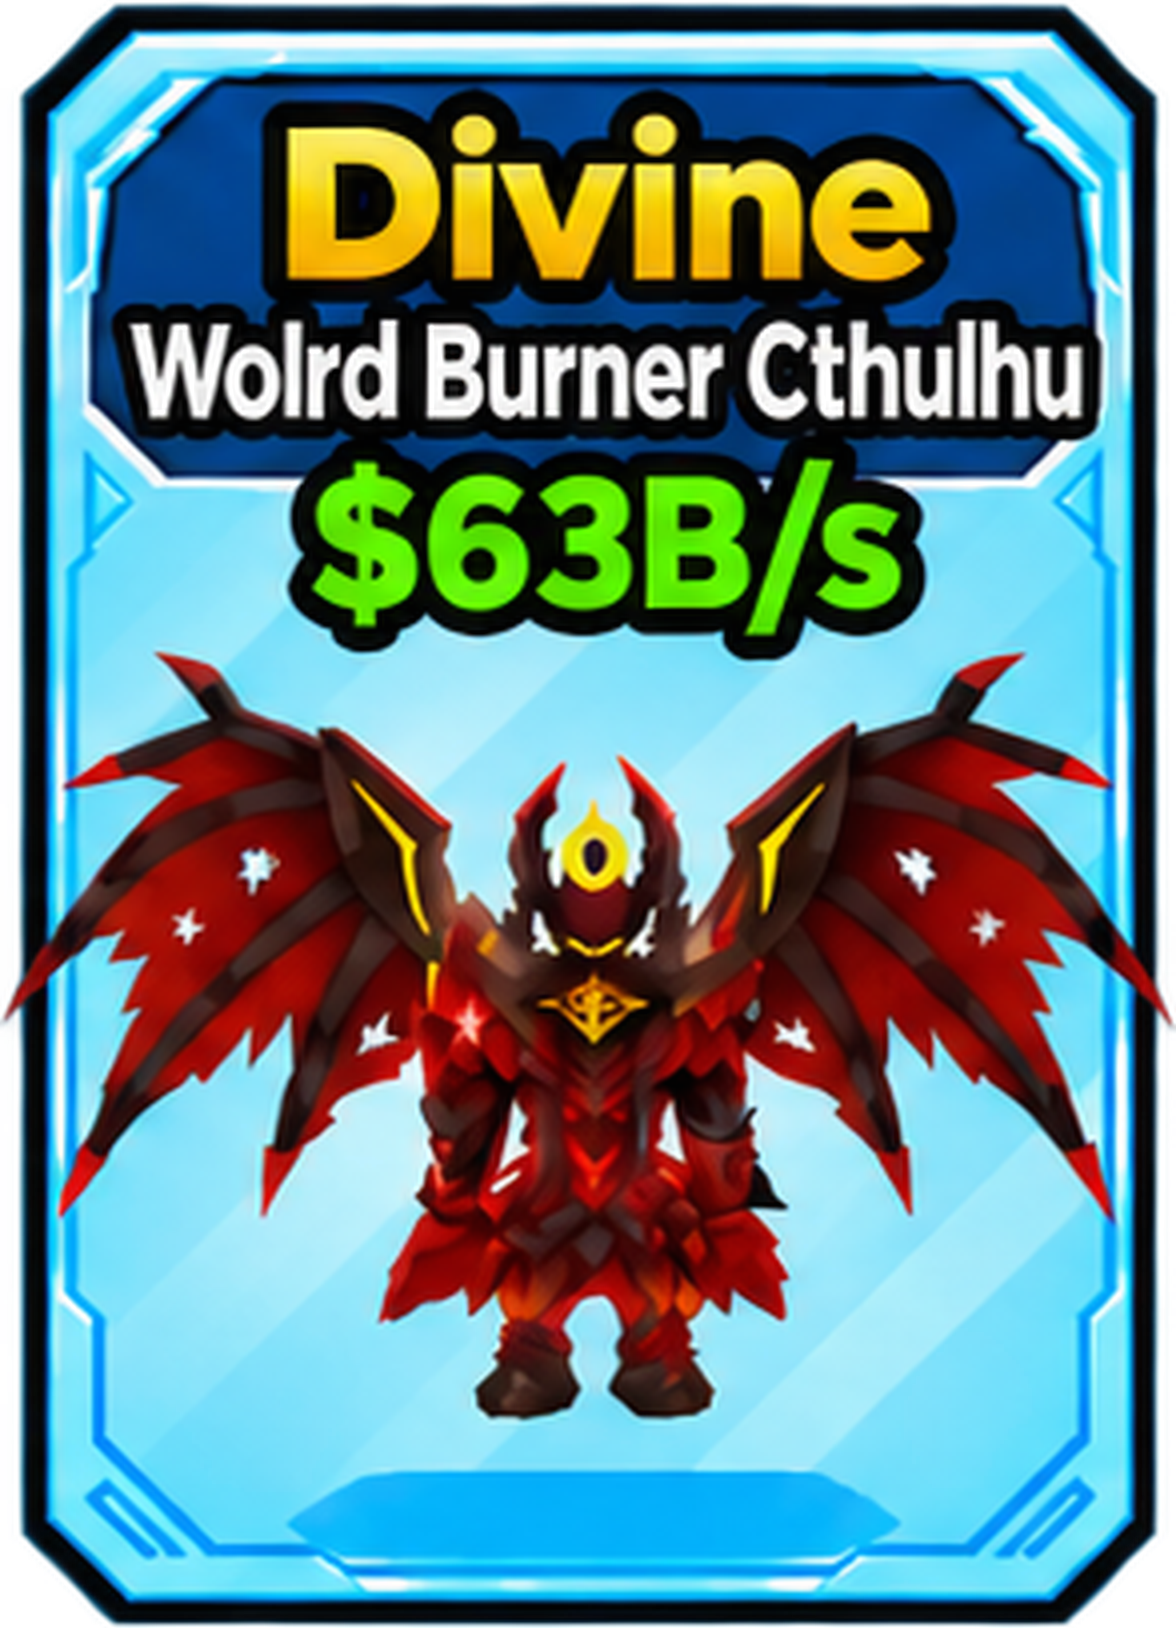
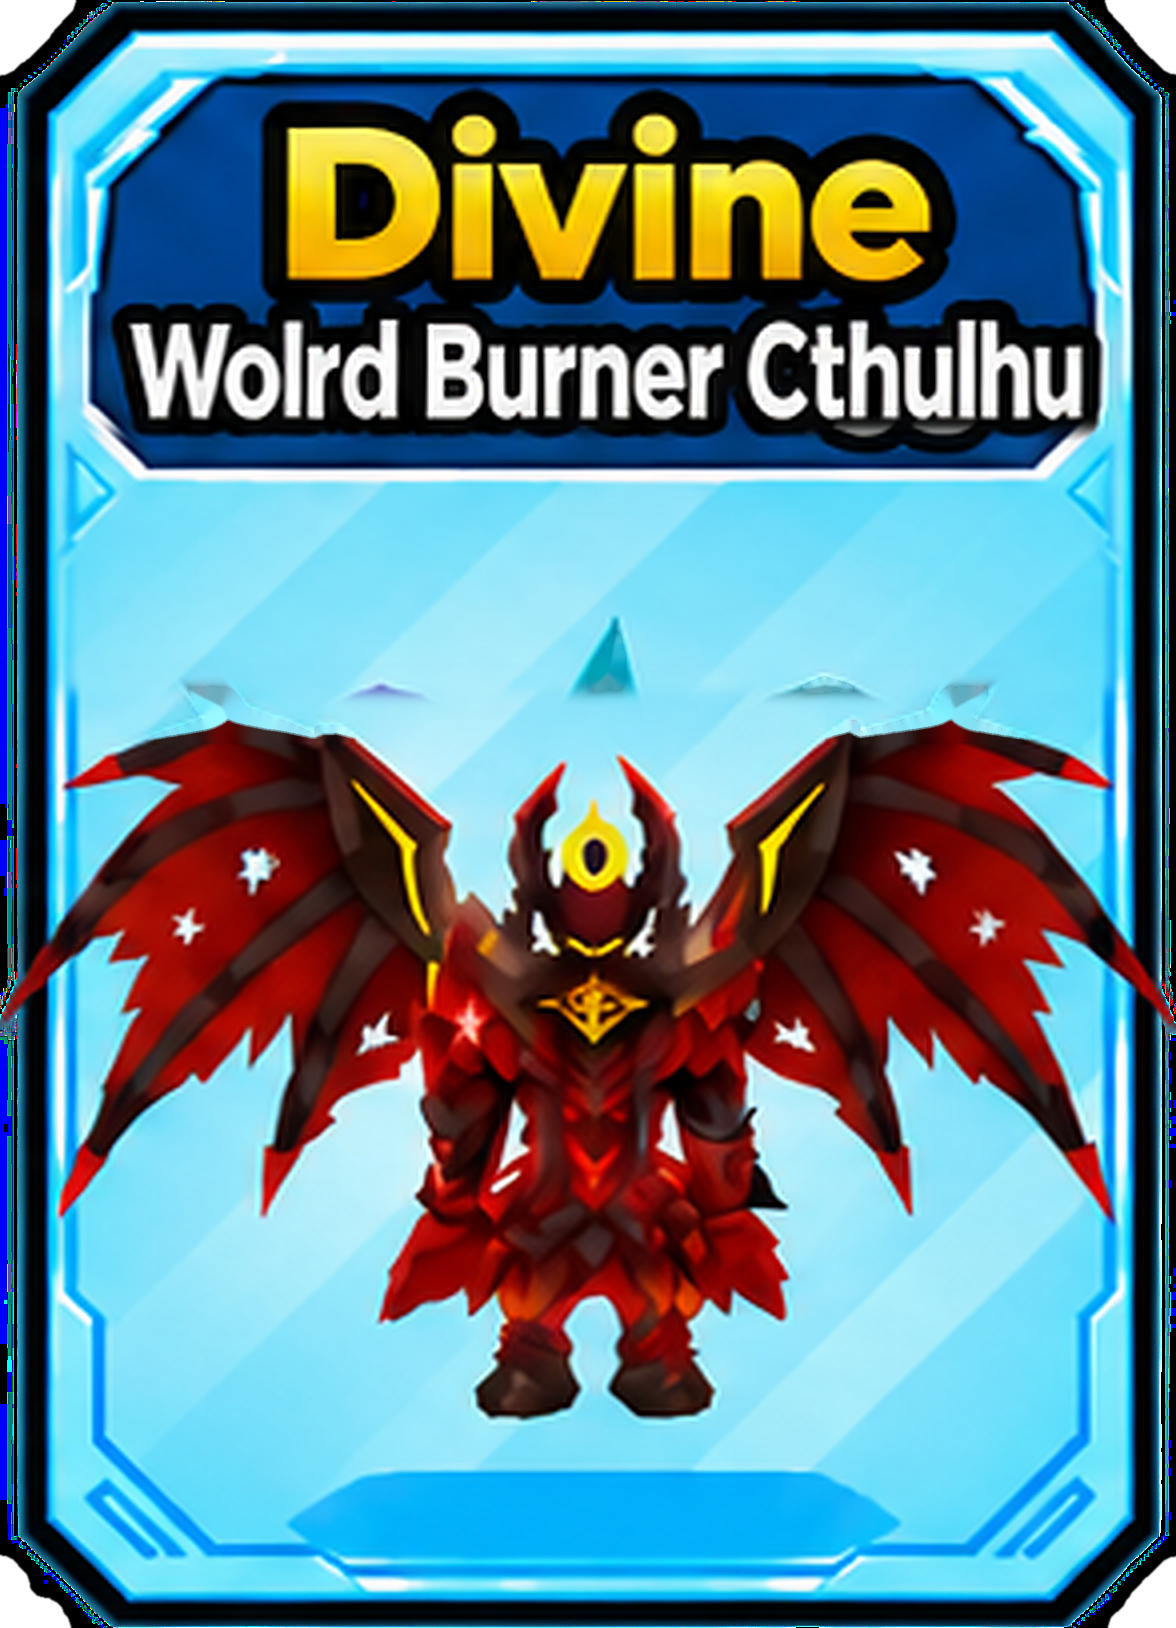
yuyu

Changed region(s): [[0.0, 0.0, 1.0, 1.0]]

diff --git a/config.js b/config.js
@@ -1,1 +1,1 @@
-window.SAE_CONFIG={"version":"5.18-compact-price-cover","cards":[{"id":"kitsune","name":"Kitsune","base":1800000000,"box":[22,93,285,405],"dynamic":true},{"id":"luminous_cthulhu","name":"Luminous Cthulhu","base":13000000000,"box":[320,92,292,407],"dynamic":true},{"id":"archangel","name":"ArchAngel","base":5000000000,"box":[625,92,286,407],"dynamic":true},{"id":"aetheron","name":"Aetheron","base":6900000000,"box":[922,92,293,407],"dynamic":true},{"id":"world_burner_cthulhu","name":"World Burner Cthulhu","base":5000000000,"box":[1224,92,294,407],"dynamic":true},{"id":"shattered_colossus","name":"Shattered Colossus","base":3500000000,"box":[21,515,286,407],"dynamic":true},{"id":"nightflame","name":"Nightflame","base":3000000000,"box":[320,516,293,407],"dynamic":true},{"id":"luminous_eggs","name":"Luminous Eggs","base":null,"box":[625,516,285,406],"dynamic":false},{"id":"cthulhu","name":"Cthulhu","base":5000000000,"box":[923,516,292,406],"dynamic":true},{"id":"mecha_dreadscale","name":"Mecha Dreadscale","base":4000000000,"box":[1230,516,285,406],"dynamic":true}],"mutations":{"silver":{"label":"Silver","multiplier":1.2},"golden":{"label":"Golden","multiplier":2.5},"rainbow":{"label":"Rainbow","multiplier":3.5},"bloom":{"label":"Bloom","multiplier":1.25},"spirit_bloom":{"label":"Spirit Bloom","multiplier":2.5},"parasite":{"label":"Parasite","multiplier":3.0},"fractured":{"label":"Fractured","multiplier":2.75}},"backend":"https://steal-an-egg-overlay-backend.leducho1900.workers.dev","room":"sae_421045db4089999b697c52d464c44d3a"};
+window.SAE_CONFIG={"version":"5.19-no-price-patch","cards":[{"id":"kitsune","name":"Kitsune","base":1800000000,"box":[22,93,285,405],"dynamic":true},{"id":"luminous_cthulhu","name":"Luminous Cthulhu","base":13000000000,"box":[320,92,292,407],"dynamic":true},{"id":"archangel","name":"ArchAngel","base":5000000000,"box":[625,92,286,407],"dynamic":true},{"id":"aetheron","name":"Aetheron","base":6900000000,"box":[922,92,293,407],"dynamic":true},{"id":"world_burner_cthulhu","name":"World Burner Cthulhu","base":5000000000,"box":[1224,92,294,407],"dynamic":true},{"id":"shattered_colossus","name":"Shattered Colossus","base":3500000000,"box":[21,515,286,407],"dynamic":true},{"id":"nightflame","name":"Nightflame","base":3000000000,"box":[320,516,293,407],"dynamic":true},{"id":"luminous_eggs","name":"Luminous Eggs","base":null,"box":[625,516,285,406],"dynamic":false},{"id":"cthulhu","name":"Cthulhu","base":5000000000,"box":[923,516,292,406],"dynamic":true},{"id":"mecha_dreadscale","name":"Mecha Dreadscale","base":4000000000,"box":[1230,516,285,406],"dynamic":true}],"mutations":{"silver":{"label":"Silver","multiplier":1.2},"golden":{"label":"Golden","multiplier":2.5},"rainbow":{"label":"Rainbow","multiplier":3.5},"bloom":{"label":"Bloom","multiplier":1.25},"spirit_bloom":{"label":"Spirit Bloom","multiplier":2.5},"parasite":{"label":"Parasite","multiplier":3.0},"fractured":{"label":"Fractured","multiplier":2.75}},"backend":"https://steal-an-egg-overlay-backend.leducho1900.workers.dev","room":"sae_421045db4089999b697c52d464c44d3a"};

diff --git a/control.html b/control.html
@@ -3,7 +3,7 @@
 <head>
 <meta charset="utf-8"><meta name="viewport" content="width=device-width,initial-scale=1">
 <meta http-equiv="Cache-Control" content="no-cache, no-store, must-revalidate">
-<title>Steal An Egg Control V5.18</title>
+<title>Steal An Egg Control V5.19</title>
 <style>
 *{box-sizing:border-box}
 body{margin:0;background:#0b0d11;color:#fff;font-family:Arial,Helvetica,sans-serif}
@@ -49,7 +49,7 @@ button{border:0;border-radius:10px;padding:10px 13px;font-weight:900;cursor:poin
 @media(max-width:800px){.grid{grid-template-columns:1fr}.muts{grid-template-columns:repeat(2,1fr)}}
 </style>
 </head><body><main>
-<h1>🥚 Steal An Egg Control V5.18 — FIXED</h1>
+<h1>🥚 Steal An Egg Control V5.19 — FIXED</h1>
 <div class="sub"><span class="syncstatus" id="syncStatus">● Đang kiểm tra D1...</span> 
 Weight nhập <b>1–1000</b>. <b>Weight 1 = đúng tiền gốc</b>; tăng Weight thì tự nhân theo đường cong size.
 Mutation cộng bonus theo hệ số. Weight/Mutation tự tính tiền. Đồng bộ qua Cloudflare D1, không dùng Cache API. Weight/Mutation/Bật-Tắt/x2–x10 cập nhật chung một state; x1 không hiện nhãn, Luminous Eggs không có nhãn số lượng.
@@ -481,7 +481,7 @@ allOn.onclick=()=>{for(const c of CFG.cards)state.cards[c.id].enabled=true;saveA
 allOff.onclick=()=>{for(const c of CFG.cards)state.cards[c.id].enabled=false;saveAndPublish()};
 reset.onclick=()=>{for(const c of CFG.cards){state.cards[c.id].weight=1;state.cards[c.id].mutations=[];state.cards[c.id].qty=1}saveAndPublish()};
 copyLink.onclick=async()=>{
- const u=new URL("index.html?v=518",location.href).href;
+ const u=new URL("index.html?v=519",location.href).href;
  try{await navigator.clipboard.writeText(u);copyLink.textContent="ĐÃ COPY";setTimeout(()=>copyLink.textContent="Copy Overlay Link",1200)}
  catch(_e){prompt("Copy link Overlay:",u)}
 };

diff --git a/index.html b/index.html
@@ -4,7 +4,7 @@
 <meta charset="utf-8">
 <meta name="viewport" content="width=device-width,initial-scale=1">
 <meta http-equiv="Cache-Control" content="no-cache, no-store, must-revalidate">
-<title>Steal An Egg Overlay V5.18 COMPACT PRICE COVER</title>
+<title>Steal An Egg Overlay V5.19 NO PRICE PATCH</title>
 <style>
 *{box-sizing:border-box}
 html,body{margin:0;width:100%;height:100%;background:transparent!important;overflow:hidden}
@@ -146,29 +146,14 @@ body{font-family:Arial,Helvetica,sans-serif}
 }
 /* Chỉ che dòng tiền CŨ trên giao diện. File PNG gốc không bị chỉnh sửa. */
 .price-cover{
-  position:absolute;
-  left:8.6%;
-  right:8.6%;
-  top:25.9%;
-  height:13.0%;
-  z-index:30;
-  background:
-    repeating-linear-gradient(
-      135deg,
-      rgba(255,255,255,.10) 0 10px,
-      rgba(255,255,255,0) 10px 25px
-    ),
-    linear-gradient(180deg,#b9f2ff 0%,#9ee6f7 100%);
-  border-radius:6px;
-  pointer-events:none;
-  box-shadow:0 0 0 1px rgba(100,220,240,.10) inset;
+  display:none!important;
 }
 .price-text{
   position:absolute;
-  left:3.0%;
-  right:3.0%;
-  top:25.7%;
-  height:13.8%;
+  left:2.5%;
+  right:2.5%;
+  top:25.1%;
+  height:14.0%;
   z-index:31;
   display:flex;
   align-items:center;
@@ -177,11 +162,11 @@ body{font-family:Arial,Helvetica,sans-serif}
   color:#35B900;
   font-family:"Arial Black","DejaVu Sans",Arial,sans-serif;
   font-weight:1000;
-  font-size:15.8cqw;
+  font-size:15.9cqw;
   line-height:.94;
   letter-spacing:-.035em;
   white-space:nowrap;
-  -webkit-text-stroke:.58cqw #070707;
+  -webkit-text-stroke:.42cqw #050505;
   paint-order:stroke fill;
   text-shadow:none!important;
   transform-origin:center center;
